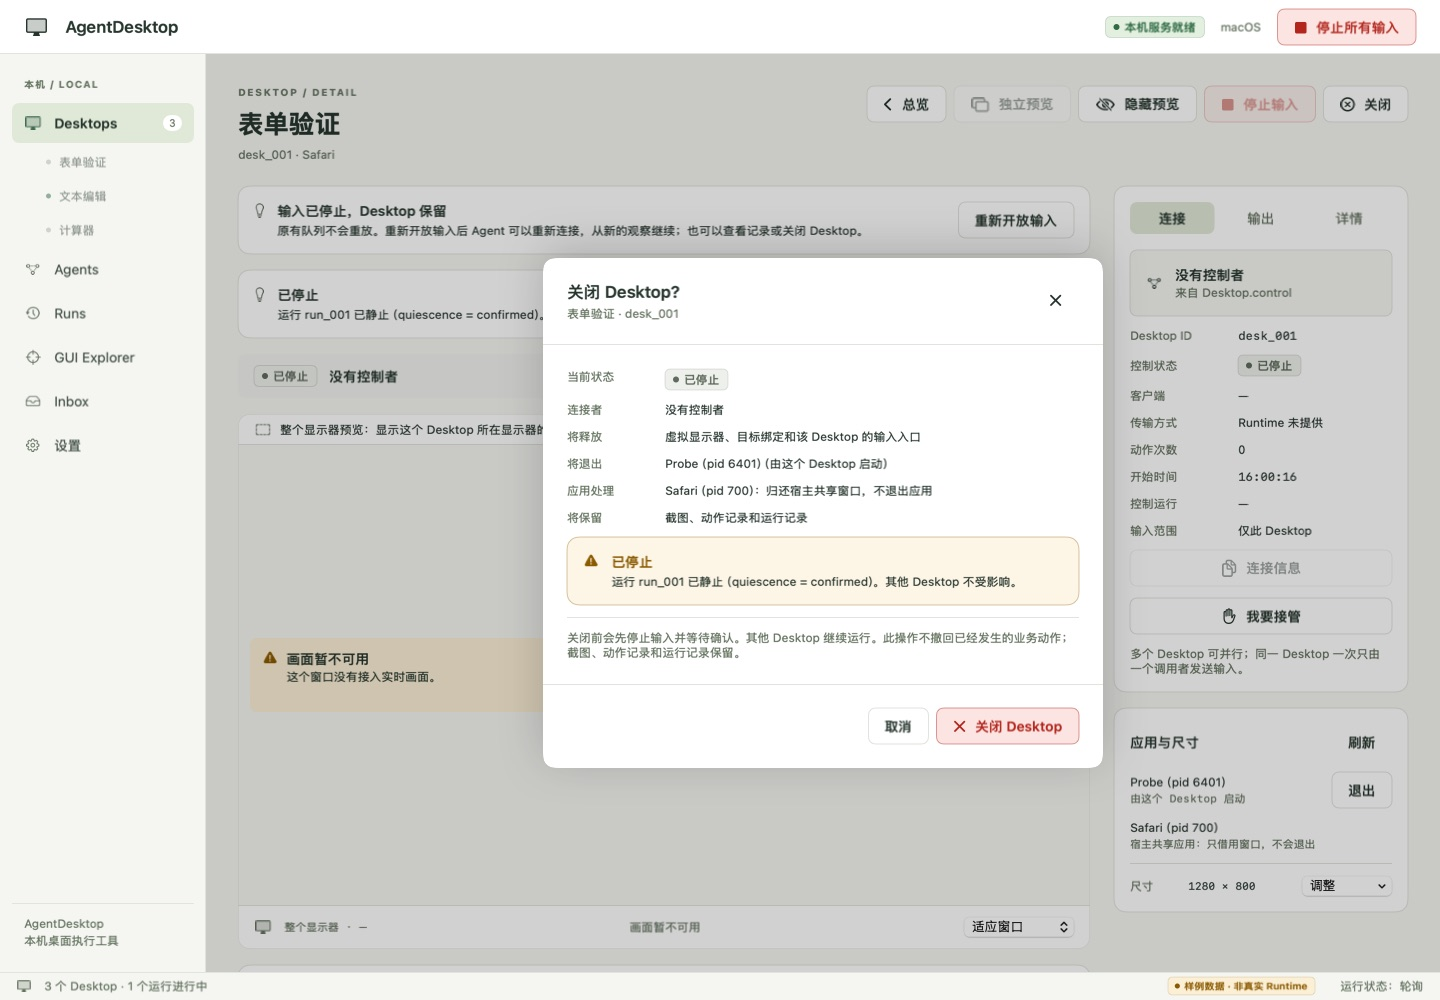
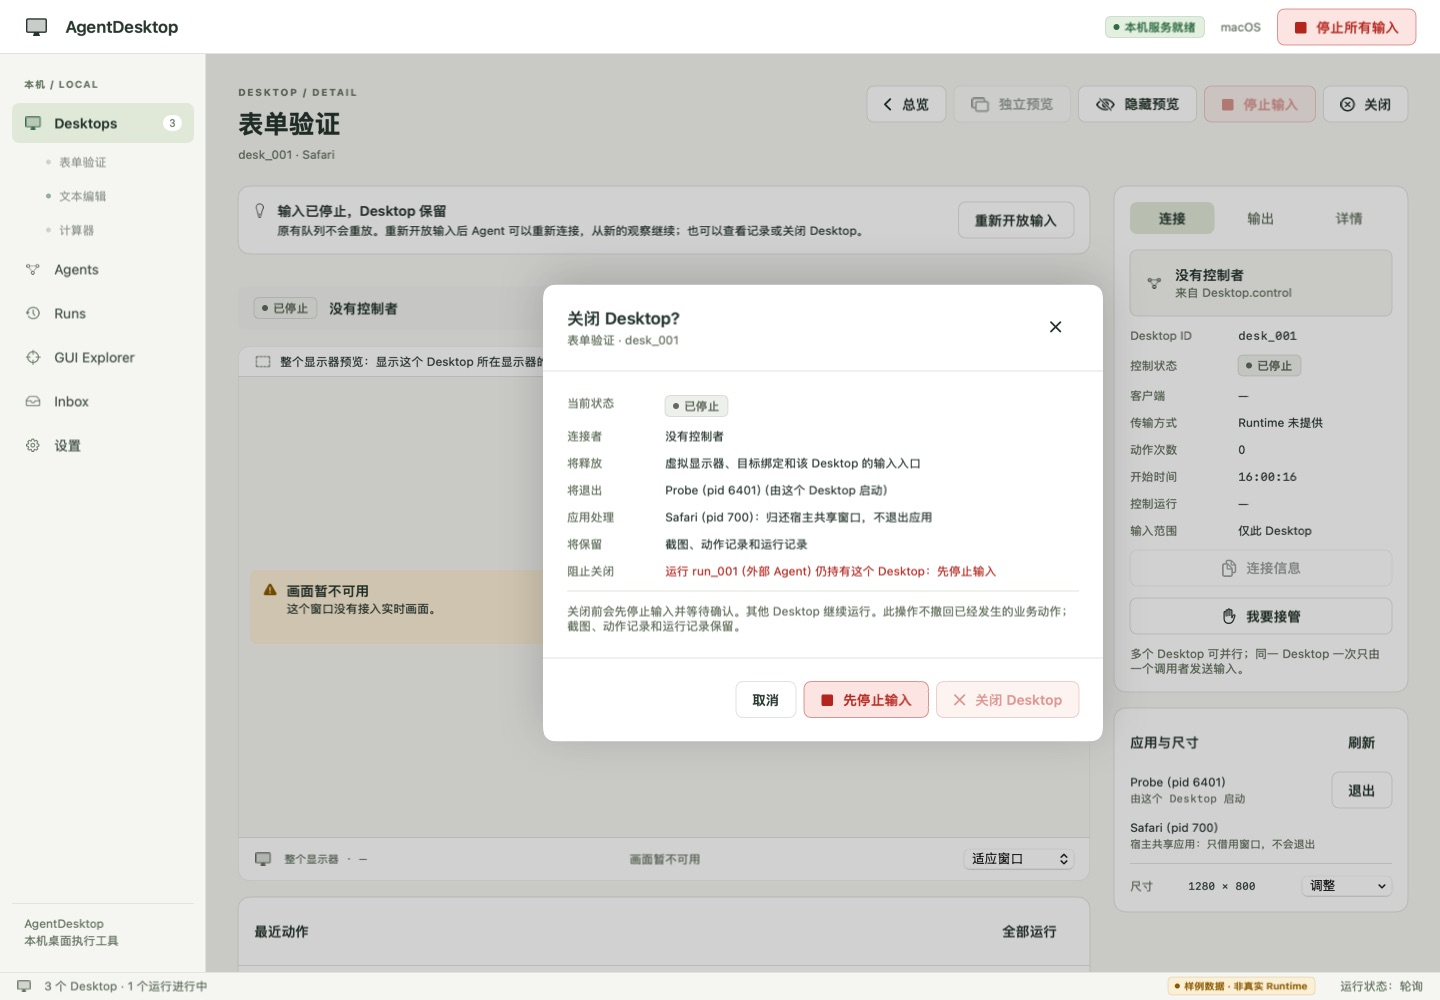
Codex on 4dc1360: no closing from a stale plan, P17 needs the new picture
- loadClosePlan drops the previous plan first; close re-reads the plan
  and closes only if it is the one shown (else shows the new one).
- An unknown result can be ended only once the new observation's
  picture was read and decoded.
- After stop_pending, takeover is offered again only once the stopped
  Run is quiescent.
- The close dialog's stop and close buttons follow runtime.capabilities.

diff --git a/Sources/AgentDesktopUI/Pages/DesktopControlViews.swift b/Sources/AgentDesktopUI/Pages/DesktopControlViews.swift
@@ -88,7 +88,8 @@ struct DesktopControlAnswers: View {
                 let pending: Bool = { if case .stopPending = a { return true }; return false }()
                 ControlNotice(title: t.title, detail: t.detail + (pending && flow.holderQuiescent ? " 运行已静止，可以再次接管。" : ""),
                               tone: .attention, code: t.code,
-                              actionTitle: pending ? "再次接管" : nil, action: pending ? takeoverAgain : nil)
+                              actionTitle: pending ? "再次接管" : nil,
+                              action: pending && TakeoverDialog.canSend(flow) ? takeoverAgain : nil)
             }
             if let t = flow.handbackText { ControlNotice(title: t.title, detail: t.detail, tone: .idle) }
             if let r = flow.resized {
@@ -146,12 +147,21 @@ struct TakeoverDialog: View {
                 Button("保留 Agent 控制") { flow.dialog = nil }.buttonStyle(ADButtonStyle(.secondary))
                     .keyboardShortcut(.cancelAction)
                 Button { Task { await flow.takeover() } } label: { Label(takeoverTitle, systemImage: "computermouse") }
-                    .buttonStyle(ADButtonStyle(.primary)).disabled(flow.working != nil)
+                    .buttonStyle(ADButtonStyle(.primary)).disabled(!Self.canSend(flow))
+                    .help(Self.canSend(flow) ? "" : "Agent 的运行还没有静止，静止后才能再次接管")
             }
             .padding(ADSpace.xl)
             .overlay(alignment: .top) { Rectangle().fill(ADColor.line).frame(height: 1) }
         }
         .frame(width: 520)
+    }
+
+    /// After stop_pending a new takeover waits for the holder to be quiet
+    /// (Codex P2 on 4dc1360).
+    static func canSend(_ flow: DesktopControlFlow) -> Bool {
+        guard flow.working == nil else { return false }
+        if case .stopPending = flow.takeoverAnswer { return flow.holderQuiescent }
+        return true
     }
 
     var takeoverTitle: String {
@@ -167,6 +177,7 @@ struct CloseDesktopDialog: View {
     @ObservedObject var flow: DesktopControlFlow
     let name: String
     let info: DesktopControlInfo
+    var methods: DesktopControlMethods = .all
 
     var body: some View {
         VStack(alignment: .leading, spacing: 0) {
@@ -193,11 +204,15 @@ struct CloseDesktopDialog: View {
                 Button("取消") { flow.dialog = nil }.buttonStyle(ADButtonStyle(.secondary)).keyboardShortcut(.cancelAction)
                 if Self.runBlocks(flow.closePlan) {
                     Button { Task { await flow.stopBeforeClose() } } label: { Label("先停止输入", systemImage: "stop.fill") }
-                        .buttonStyle(ADButtonStyle(.danger)).disabled(flow.working != nil || stopWaiting)
+                        .buttonStyle(ADButtonStyle(.danger))
+                        .disabled(!methods.has("desktop.stop") || flow.working != nil || stopWaiting)
+                        .help(methods.has("desktop.stop") ? "只停止这个 Desktop 的输入，静止后重新读取关闭计划"
+                              : DesktopControlMethods.missing("desktop.stop"))
                 }
                 Button { Task { await flow.close() } } label: { Label("关闭 Desktop", systemImage: "xmark") }
                     .buttonStyle(ADButtonStyle(.danger))
-                    .disabled(flow.closePlan?["canClose"]?.boolValue != true || flow.working != nil)
+                    .disabled(!methods.has("desktop.destroy") || flow.closePlan?["canClose"]?.boolValue != true || flow.working != nil)
+                    .help(methods.has("desktop.destroy") ? "" : DesktopControlMethods.missing("desktop.destroy"))
             }
             .padding(ADSpace.xl)
             .overlay(alignment: .top) { Rectangle().fill(ADColor.line).frame(height: 1) }

diff --git a/Tests/AgentDesktopUITests/DesktopControlU3Tests.swift b/Tests/AgentDesktopUITests/DesktopControlU3Tests.swift
@@ -386,3 +386,74 @@ struct DesktopControlAnswerTests {
         #expect(flow.handbackText == nil)
     }
 }
+
+/// Codex findings on 4dc1360.
+@MainActor
+@Suite("Desktop control review fixes")
+struct DesktopControlReviewFixTests {
+    func idle() -> (MockRuntime, String) {
+        let m = MockRuntime()
+        let a = m.addDesktop(name: "A", app: "Safari")
+        m.enableDesktopControl()
+        return (m, a)
+    }
+
+    // P1: a failed re-read leaves no stale plan to close from.
+    @Test func failedPlanReadLeavesNothingToCloseFrom() async {
+        let (m, a) = idle()
+        let flow = DesktopControlFlow(runtime: m, desktopId: a)
+        await flow.loadClosePlan()
+        #expect(flow.closePlan?["canClose"]?.boolValue == true)
+        m.failNext("desktop.closePlan", code: "internal_error")
+        await flow.loadClosePlan()
+        #expect(flow.closePlan == nil && flow.problems[.closePlan] != nil)
+        await flow.close()
+        #expect(!m.callLog.contains("desktop.destroy"))
+    }
+
+    // P1: a plan that changed since it was shown (a new app launched here)
+    // is shown again; nothing closes.
+    @Test func changedPlanIsShownBeforeClosing() async throws {
+        let (m, a) = idle()
+        let flow = DesktopControlFlow(runtime: m, desktopId: a)
+        await flow.loadClosePlan()
+        m.addLaunchedApp(a, name: "Probe")
+        await flow.close()
+        #expect(!m.callLog.contains("desktop.destroy"))
+        #expect(flow.problems[.close]?.code == "conflict")
+        #expect(flow.closePlan?["quit"]?.arrayValue?.count == 1, "the new plan names the app destroy would quit")
+        await flow.close()
+        #expect(flow.closed?["destroyed"]?.boolValue == true)
+    }
+
+    // P1: ending an unknown result needs the new picture, not just the
+    // observation.
+    @Test func endingNeedsTheNewPicture() async throws {
+        let (m, a) = idle()
+        let run = m.addRun(desktopId: a)
+        let req = m.addAction(runId: run, delivery: "unknown", execution: "unknown")
+        let entry = ActionEntry(runId: run, requestId: req, at: nil, receipt: nil, errorCode: nil)
+        let review = UnknownResultReview(runtime: m, desktopId: a, entry: entry)
+        m.failNext("artifact.read", code: "not_found")
+        await review.reobserve()
+        #expect(!review.canEnd && review.observation == nil && review.problem?.code == "not_found")
+        await review.reobserve()
+        #expect(review.canEnd)
+    }
+
+    // P2: after stop_pending, takeover is offered again only once the
+    // stopped Run is quiescent.
+    @Test func takeoverRetryWaitsForQuiescence() async throws {
+        let (m, a) = idle()
+        let run = m.addRun(desktopId: a)
+        m.syncDesktopControls()
+        m.markActionInFlight(run)
+        let flow = DesktopControlFlow(runtime: m, desktopId: a)
+        #expect(TakeoverDialog.canSend(flow))
+        await flow.takeover()
+        #expect(!TakeoverDialog.canSend(flow))
+        m.finishInFlight(run)
+        await flow.refresh()
+        #expect(TakeoverDialog.canSend(flow))
+    }
+}

diff --git a/Sources/AgentDesktopUI/Pages/DesktopControl.swift b/Sources/AgentDesktopUI/Pages/DesktopControl.swift
@@ -344,14 +344,26 @@ public final class DesktopControlFlow: ObservableObject {
         await loadClosePlan()
     }
 
+    /// Reads the plan again. The previous plan is dropped first, so a
+    /// failed read leaves no stale plan to close from (Codex P1 on 4dc1360).
     public func loadClosePlan() async {
+        guard working == nil else { return }
+        closePlan = nil
         await perform(.closePlan) { closePlan = try await runtime.call("desktop.closePlan", idParams) }
     }
 
-    /// desktop.destroy, only when the plan says it can close.
+    /// desktop.destroy, only when the plan shown says it can close and a
+    /// plan read just now is the same: if anything changed (a new app
+    /// launched, a Run started) the new plan is shown and nothing closes.
     public func close() async {
-        guard closePlan?["canClose"]?.boolValue == true else { return }
+        guard let shown = closePlan, shown["canClose"]?.boolValue == true else { return }
         await perform(.close) {
+            let fresh = try await runtime.call("desktop.closePlan", idParams)
+            guard fresh == shown else {
+                closePlan = fresh
+                throw RuntimeError("conflict", "the close plan changed since it was shown; read the new plan before closing",
+                                   phase: .handler, notSent: true)
+            }
             closed = try await runtime.call("desktop.destroy", idParams)
             dialog = nil
         }
@@ -436,8 +448,8 @@ public final class UnknownResultReview: ObservableObject {
         self.entry = entry
     }
 
-    /// UC29: ending is closed until a new observation exists.
-    public var canEnd: Bool { observation != nil }
+    /// UC29: ending is closed until a new observation with its picture exists.
+    public var canEnd: Bool { observation != nil && image != nil }
 
     public func reobserve() async {
         guard !observing else { return }
@@ -446,8 +458,14 @@ public final class UnknownResultReview: ObservableObject {
         do {
             let o = try await runtime.call("observe", .obj([("elements", .bool(false))]),
                                            context: RequestContext(desktopId: desktopId))
+            // Published only with a picture the owner can look at: ending
+            // stays closed when the new screen cannot be shown (Codex P1 on
+            // 4dc1360).
+            guard let img = try await Self.readImage(runtime, o["image"]) else {
+                throw RuntimeError("execution_failed", "the new observation has no picture that can be shown", phase: .handler)
+            }
             observation = o
-            image = try await Self.readImage(runtime, o["image"])
+            image = img
         } catch {
             problem = RuntimeProblem(error)
         }

diff --git a/Sources/AgentDesktopUI/Pages/DesktopsPages.swift b/Sources/AgentDesktopUI/Pages/DesktopsPages.swift
@@ -388,7 +388,7 @@ public struct DesktopInspectorView: View {
             DesktopModal {
                 switch dialog {
                 case .takeover: TakeoverDialog(flow: control, name: name, info: info)
-                case .close: CloseDesktopDialog(flow: control, name: name, info: info)
+                case .close: CloseDesktopDialog(flow: control, name: name, info: info, methods: methods)
                 case .unknown:
                     if let review {
                         UnknownResultDialog(review: review, flow: control, name: name,

diff --git a/docs/acceptance/ui-b/README.md b/docs/acceptance/ui-b/README.md
@@ -67,6 +67,8 @@
 
 ## 测试
 
+第一轮（4dc1360）：
+
 | 命令 | 退出码 | 结果 |
 | --- | --- | --- |
 | `swift build --build-tests` | 0 | — |
@@ -74,3 +76,13 @@
 | `LIBDISPATCH_COOPERATIVE_POOL_STRICT=1 swift test --skip-build`（两次） | 1、1 | 两次都是 `SingleEndpointTests` 三项（`aiMethodsAnswer…`、`aKeyReused…`、`concurrentDuplicatesMakeOneWrite`）等 Runtime 回复超时；第二次另有 `InferenceTransportTests.sec006_redirectIsNotFollowed` 一次超时。两组单独在严格模式下重跑全部通过（7/7、14/14）。都不在本 PR 改动范围（Runtime / AI 测试），已知问题是 SingleEndpoint 的两项，这次多出一项同组测试 |
 
 新测试：`DesktopControlU3Tests`（16 项：UC07–UC18、UC29–UC31、superseded、物理 Desktop、app.quit、resize、U2b 降级、缺方法置灰、ADR-02、每 Desktop 独立停止）、`DesktopControlRenderTests`（2 项，出 PNG；本目录存的是转成 JPEG 的同一批图）。`MockRuntimeTests.answersStayInsideTheContract` 补了本线 6 个方法，并把已入契约的 `control` 从 planned 名单移出（改为 `transport`、`lastActionAt`）。
+
+第二轮（Codex 在 4dc1360 上的 2 个 P1、2 个 P2 修复后）：
+
+| 命令 | 退出码 | 结果 |
+| --- | --- | --- |
+| `swift build --build-tests` | 0 | — |
+| `swift test --skip-build` | 0 | 1393 项通过（7 个原有 known issue） |
+| `LIBDISPATCH_COOPERATIVE_POOL_STRICT=1 swift test --skip-build` | 1 | 只有已知的 `SingleEndpointTests` 两项超时（`aiMethodsAnswer…`、`aKeyReused…`） |
+
+修复：关闭计划重读前先清空，读失败就不能关闭；关闭前再读一次计划，与所显示的不同就显示新计划、不关闭；P17 必须拿到可显示的新画面才开放结束；stop_pending 之后要等被停运行静止才能再次接管；关闭对话框的「先停止输入」「关闭 Desktop」按 `runtime.capabilities` 置灰。新增 `DesktopControlReviewFixTests`（4 项）与 `DesktopControlAnswerTests`（1 项，旧回答在状态变化后撤下）。渲染图已按修复后的代码重出。
